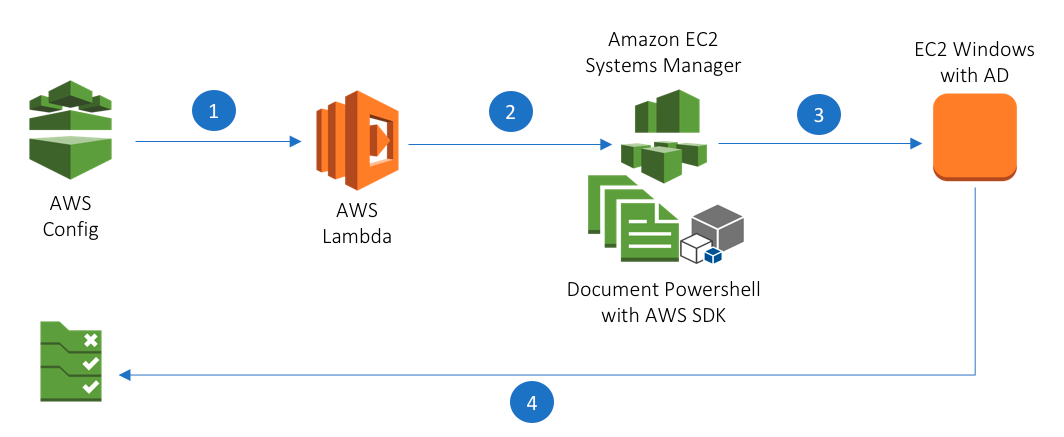
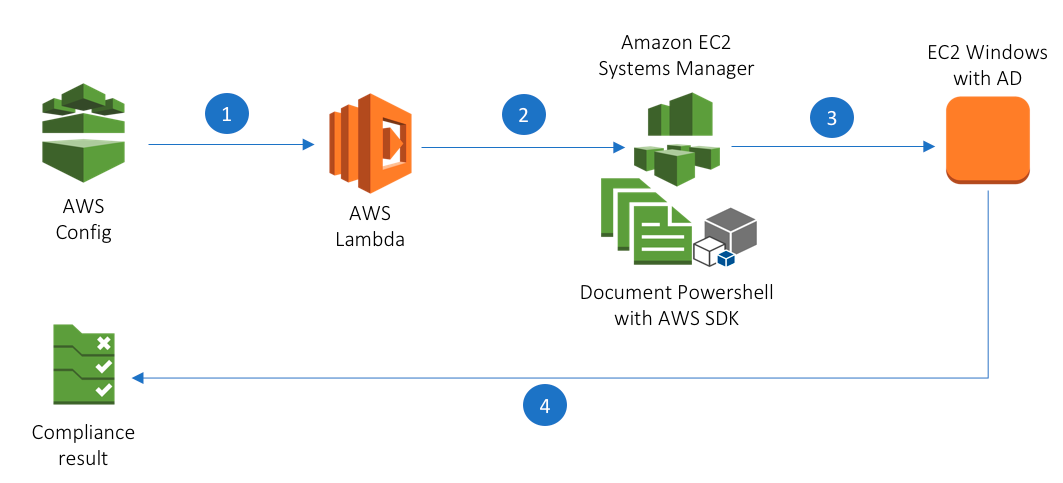
Added CloudFormation Template and more description

diff --git a/README.md b/README.md
@@ -4,10 +4,11 @@ AWS Config Rule is a service that provides managed and customized compliance che
 
 This repo provides a solution to integrate AWS Config Rules with application resources. Specifically, the example stack will have a compliance check for passwords of users in Active Directory.
 
-### What the rule checks
+### What compliance rule does it check
 The rule checks all users' password configuration in Active Directory. For normal users, it reports non_compliant for the ones who have "password never expires" enabled. For service accounts, it allows "password never expires" but will report non_compliant for password age longer than 90 days. (This is common compliance requirement for AD in large companies - human users should not have non-expiring password; for service accounts, password should also be rotated regularly).
 
 ### How does it work
+![alt text](https://raw.githubusercontent.com/totoleon/aws-config-rule-ad-users/master/doc/Diagram.png)
 Services in use:
 - AWS Config - Compliance tool and reporting dashboard
 - AWS SSM - As the check requires action on application level, SSM is used to perform the logic
@@ -15,4 +16,95 @@ Services in use:
 - Powershell with AWS SDK - In this case of checking AD resources, Powershell is used with AWS SDK for reporting back to Config. If you want to check stuff on a Linux server and report back to Config, you can make it in Shell.
 
 Simple work flow:
-1. Config
+1. ConfiG Rule periodic evaluation triggers a Lambda function. The event will contain a `resultToken` for Lambda to report compliance results back to Config.
+2. The Lambda function runs an SSM document with giving `resultToken` and `ruleName` as parameters.
+3. SSM agent running on the EC2 instance will execute PowerShell commands, which clean up the previous evaluation results and perform new checks.
+4. As part of the PowerShell function, it reports compliance results back to Config using the `resultToken`.
+
+### Prerequisites
+[ ] Make sure you already have Windows instances as Domain Controllers. The stack does not launch EC2 instances with Active Directory.  
+[ ] The Lambda runs SSM targeting instances based on Tags. It runs the document on the instances which are tagged as `Application: ActiveDirectory`  
+[ ] The PowerShell script only runs on Primary Domain Controller. It will skip if the DC is not PDC. Make sure your PDC has the identifier tagging. Or you can modify the script to run based on instance Ids.  
+[ ] Make sure your instance has PowerShell AWS SDK installed - https://docs.aws.amazon.com/powershell/latest/userguide/pstools-getting-set-up-windows.html  
+[ ] Make sure your EC2 instance has SSM agent installed and running - https://docs.aws.amazon.com/systems-manager/latest/userguide/sysman-install-ssm-win.html  
+[ ] Make sure the EC2 instance has sufficient permission to put evaluation results to the Config Rule. You can associate the policy created in the stack to the Instance Profile of your DC.  
+[ ] Make sure you have AWS Config is enabled  
+
+### Deployment steps
+1. Launch a stack from `cfn_template.yml` in the region where your Active Directory instances run.
+2. Tag your domain controllers with `Application: ActiveDirectory`. The tagged instances will be the target of SSM send command. However, the actual evaluation will only be performed by the Primary Domain Controller.
+3. If your domain controller instance doesn't have an Instance Profile, create one and associate. Then, make sure the Instance Role has sufficient permission to perform `config:PutEvaluations` and `config:DeleteEvaluationResults`. You can attach the managed policy created by the stack to your Instance Profile.
+4. The Config rule should be deployed and alive. You can trigger it manually in Config console. The result will be like this: ![alt text](https://raw.githubusercontent.com/totoleon/aws-config-rule-ad-users/master/doc/evaluation_results.png)
+
+### CloudFormation stack components
+The CloudFormation template includes:
+- A Config Rule
+- A Lambda function in Python 3.6
+- An SSM document Powershell
+- IAM Role and permissions for Lambda to invoke the SSM document
+- An IAM policy for AD's instance role to report evaluation result
+
+#### Lambda logic
+```
+import json, boto3, logging
+from pprint import pformat
+logger = logging.getLogger()
+logger.setLevel(logging.INFO)
+ssm = boto3.client('ssm')
+
+# The Lambda will be invoked by Config
+def lambda_handler(event, context):
+    logger.info("Starting evaluation. Received event from Config:")
+    logger.info(pformat(event))
+
+    # Get resultToken from the event.
+    evaluation_token = event['resultToken']
+    rule_region = event['configRuleArn'].split(':')[3]
+    rule_name = event['configRuleName']
+    rule_params = json.loads(event['ruleParameters'])
+    # Get the document name from rule parameters
+    document_name = rule_params['EVALUATION_DOC']
+
+    # Invoke the SSM document and pass the resultToken to PowerShell
+    command_execution = ssm.send_command(
+        Targets=[{"Key":"tag:Application","Values":["ActiveDirectory"]}],
+        DocumentName=document_name,
+        Comment='Check AD user compliance',
+        Parameters={"executionTimeout":["600"],"resultToken":[evaluation_token],"ruleName":[rule_name],"ruleRegion":[rule_region]})
+    logger.info('SSM document run command has been sent to DCs. CommandId:' + command_execution['Command']['CommandId'])
+```
+#### PowerShell Logic:
+
+```
+Set-DefaultAWSRegion -Region "{{ ruleRegion }}"
+$dc = Get-ADDomainController
+$pdc = Get-ADDomainController -Discover -Domain $dc.Domain -Service "PrimaryDC"
+if ($dc.Name -eq $pdc.Name) {
+  $token = "{{ resultToken }}"
+  Import-Module AWSPowerShell
+
+  # Get all normal users and service accounts distinguished by if starting with 'service_'
+  $normalUsers = Get-Aduser -Filter 'Name -notLike "service_*"' -Properties Name, PasswordNeverExpires, PasswordLastSet
+  # Human users should not have PasswordNeverExpires = True
+  $badNonServiceUsers = $normalUsers | where({ $_.PasswordNeverExpires })
+  $serviceUsers = Get-Aduser -Filter 'Name -Like "service_*"' -Properties Name, PasswordNeverExpires, PasswordLastSet
+  $allowedPasswdAge = 90
+  $dateToday = Get-Date
+  # Service accounts should have password age less than 90 days
+  $badServiceUsers = $serviceUsers | where({ (New-TimeSpan -Start $_.PasswordLastSet -end $dateToday).days -gt $allowedPasswdAge })
+  $allUsers = $normalUsers + $serviceUsers
+  $badUsers = $badNonServiceUsers + $badServiceUsers
+  Remove-CFGEvaluationResult -ConfigRuleName "{{ ruleName }}"
+  # Loop through all users and report the evaluation results to AWS Config with given token
+  Foreach ($user in $allUsers)
+  {
+    $complianceType = If ($badUsers -contains $user) {"NON_COMPLIANT"} Else {"COMPLIANT"}
+    $evaluation = New-Object Amazon.ConfigService.Model.Evaluation
+    $evaluation.ComplianceResourceId = $user.Name
+    $evaluation.ComplianceResourceType = 'AWS::::Account'
+    $evaluation.ComplianceType = $complianceType
+    $evaluation.OrderingTimestamp = Get-Date
+    Write-CFGEvaluation -Evaluation $evaluation -ResultToken $token
+  }
+}
+```
